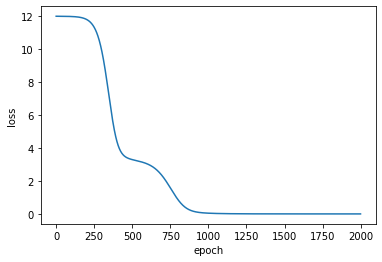
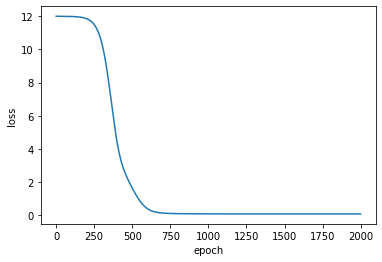
rebuilding site 2019년 9월 14일 토요일 23시 24분 21초 KST

diff --git a/post/latent_factor_model/index.html b/post/latent_factor_model/index.html
@@ -93,11 +93,13 @@
 </ul></li>
 <li><a href="#케라스-keras-로-모델링-modeling">케라스(Keras)로 모델링(Modeling)</a>
 <ul>
-<li><a href="#데이터-변환-및-분할">데이터 변환 및 분할</a></li>
+<li><a href="#데이터-변환">데이터 변환</a></li>
+<li><a href="#훈련-테스트-데이터-분할">훈련, 테스트 데이터 분할</a></li>
 <li><a href="#임베딩-embedding-1">임베딩 (Embedding)</a></li>
 <li><a href="#벡터화-flatten">벡터화 (Flatten)</a></li>
 <li><a href="#모델링-modeling">모델링 (Modeling)</a></li>
-<li><a href="#모델-훈련-및-평가-train-test-model">모델 훈련 및 평가 (Train &amp; Test Model)</a></li>
+<li><a href="#모델-훈련-train-model">모델 훈련 (Train Model)</a></li>
+<li><a href="#모델-평가-test-model">모델 평가 (Test Model)</a></li>
 </ul></li>
 <li><a href="#해결-solution">해결 (Solution)</a></li>
 </ul></li>
@@ -188,14 +190,7 @@ path <span style="color:#f92672">=</span> get_file(zip_fname, origin, extract<sp
 
 path <span style="color:#f92672">=</span> path<span style="color:#f92672">.</span>replace(zip_fname, data_dir)
 ratings_path <span style="color:#f92672">=</span> os<span style="color:#f92672">.</span>path<span style="color:#f92672">.</span>join(path, ratings_fname)
-movies_path <span style="color:#f92672">=</span> os<span style="color:#f92672">.</span>path<span style="color:#f92672">.</span>join(path, movies_fname)
-
-<span style="color:#66d9ef">print</span>(ratings_path)
-<span style="color:#66d9ef">print</span>(movies_path)</code></pre></div>
-<pre><code>/home/dataman/.keras/datasets/ml-latest-small/ratings.csv
-/home/dataman/.keras/datasets/ml-latest-small/movies.csv
-</code></pre>
-
+movies_path <span style="color:#f92672">=</span> os<span style="color:#f92672">.</span>path<span style="color:#f92672">.</span>join(path, movies_fname)</code></pre></div>
 <h3 id="ratings-데이터프레임">Ratings 데이터프레임</h3>
 <div class="highlight"><pre style="color:#f8f8f2;background-color:#272822;-moz-tab-size:4;-o-tab-size:4;tab-size:4"><code class="language-python" data-lang="python"><span style="color:#f92672">import</span> pandas <span style="color:#f92672">as</span> pd
 <span style="color:#f92672">import</span> numpy <span style="color:#f92672">as</span> np
@@ -1538,12 +1533,14 @@ n_users_latent_factors <span style="color:#f92672">=</span> <span style="color:#
 
 <span style="color:#75715e"># Item latent factor</span>
 item_embedding <span style="color:#f92672">=</span> Embedding(n_items, n_items_latent_factors, <span style="color:#75715e"># (5X2) Latent factor</span>
+                           embeddings_regularizer<span style="color:#f92672">=</span>regularizers<span style="color:#f92672">.</span>l2(<span style="color:#ae81ff">0.001</span>),
                            name<span style="color:#f92672">=</span><span style="color:#e6db74">&#39;item_embedding&#39;</span>)(item_input)
 <span style="color:#75715e"># User latent factor</span>
 user_embedding <span style="color:#f92672">=</span> Embedding(n_users, n_users_latent_factors, <span style="color:#75715e"># (4X2) Latent factor</span>
+                           embeddings_regularizer<span style="color:#f92672">=</span>regularizers<span style="color:#f92672">.</span>l2(<span style="color:#ae81ff">0.001</span>),
                            name<span style="color:#f92672">=</span><span style="color:#e6db74">&#39;user_embedding&#39;</span>)(user_input)</code></pre></div>
 <pre><code>WARNING: Logging before flag parsing goes to stderr.
-W0913 01:34:07.430426 139839168730944 deprecation.py:506] From /home/dataman/anaconda3/lib/python3.7/site-packages/tensorflow/python/keras/initializers.py:119: calling RandomUniform.__init__ (from tensorflow.python.ops.init_ops) with dtype is deprecated and will be removed in a future version.
+W0914 23:06:25.672605 139764579673920 deprecation.py:506] From /home/dataman/anaconda3/lib/python3.7/site-packages/tensorflow/python/keras/initializers.py:119: calling RandomUniform.__init__ (from tensorflow.python.ops.init_ops) with dtype is deprecated and will be removed in a future version.
 Instructions for updating:
 Call initializer instance with the dtype argument instead of passing it to the constructor
 </code></pre>
@@ -1577,7 +1574,7 @@ plt<span style="color:#f92672">.</span>plot(hist<span style="color:#f92672">.</s
 plt<span style="color:#f92672">.</span>xlabel(<span style="color:#e6db74">&#39;epoch&#39;</span>)
 plt<span style="color:#f92672">.</span>ylabel(<span style="color:#e6db74">&#39;loss&#39;</span>)
 plt<span style="color:#f92672">.</span>show()</code></pre></div>
-<pre><code>loss:  0.030767172574996948
+<pre><code>loss:  0.07310417294502258
 </code></pre>
 
 <p><img src="output_50_1.png" alt="png" /></p>
@@ -1618,38 +1615,38 @@ pd<span style="color:#f92672">.</span>DataFrame(R_hat)</code></pre></div>
   <tbody>
     <tr>
       <td>0</td>
-      <td>4.999623</td>
-      <td>4.522830</td>
-      <td>1.008499</td>
-      <td>0.986881</td>
+      <td>4.986020</td>
+      <td>4.506338</td>
+      <td>1.004396</td>
+      <td>0.993599</td>
     </tr>
     <tr>
       <td>1</td>
-      <td>4.741117</td>
-      <td>4.289957</td>
-      <td>1.006786</td>
-      <td>0.981370</td>
+      <td>4.735092</td>
+      <td>4.280501</td>
+      <td>1.003393</td>
+      <td>0.988274</td>
     </tr>
     <tr>
       <td>2</td>
-      <td>5.235123</td>
-      <td>4.735589</td>
-      <td>1.041489</td>
-      <td>1.020268</td>
+      <td>5.230458</td>
+      <td>4.726562</td>
+      <td>1.017328</td>
+      <td>1.009568</td>
     </tr>
     <tr>
       <td>3</td>
-      <td>1.000833</td>
-      <td>1.003219</td>
-      <td>5.234733</td>
-      <td>4.739758</td>
+      <td>1.002702</td>
+      <td>1.002625</td>
+      <td>5.225470</td>
+      <td>4.729930</td>
     </tr>
     <tr>
       <td>4</td>
-      <td>1.001417</td>
-      <td>0.994072</td>
-      <td>4.737130</td>
-      <td>4.290676</td>
+      <td>1.001995</td>
+      <td>0.992466</td>
+      <td>4.729147</td>
+      <td>4.282340</td>
     </tr>
   </tbody>
 </table>
@@ -1723,10 +1720,9 @@ GD 대신에 Adam을 사용한다.</p>
 
 <h2 id="케라스-keras-로-모델링-modeling">케라스(Keras)로 모델링(Modeling)</h2>
 
-<h3 id="데이터-변환-및-분할">데이터 변환 및 분할</h3>
+<h3 id="데이터-변환">데이터 변환</h3>
 
-<p>훈련 데이터는 <code>ratings_df</code>에서 랜덤하게 80%를 선택하고,<br />
-테스트 데이터는 나머지 20%를 랜덤하게 선택한다.</p>
+<p><code>userId</code>와 <code>movieId</code>를 숫자로 변환(인코딩)한다.</p>
 <div class="highlight"><pre style="color:#f8f8f2;background-color:#272822;-moz-tab-size:4;-o-tab-size:4;tab-size:4"><code class="language-python" data-lang="python"><span style="color:#75715e"># Indexing userId and movieId</span>
 users <span style="color:#f92672">=</span> ratings_df<span style="color:#f92672">.</span>userId<span style="color:#f92672">.</span>unique()
 movies <span style="color:#f92672">=</span> ratings_df<span style="color:#f92672">.</span>movieId<span style="color:#f92672">.</span>unique()
@@ -1735,9 +1731,12 @@ userid2idx <span style="color:#f92672">=</span> {o:i <span style="color:#66d9ef"
 movieid2idx <span style="color:#f92672">=</span> {o:i <span style="color:#66d9ef">for</span> i,o <span style="color:#f92672">in</span> enumerate(movies)}
 
 ratings_df[<span style="color:#e6db74">&#39;userId&#39;</span>] <span style="color:#f92672">=</span> ratings_df[<span style="color:#e6db74">&#39;userId&#39;</span>]<span style="color:#f92672">.</span>apply(<span style="color:#66d9ef">lambda</span> x: userid2idx[x])
-ratings_df[<span style="color:#e6db74">&#39;movieId&#39;</span>] <span style="color:#f92672">=</span> ratings_df[<span style="color:#e6db74">&#39;movieId&#39;</span>]<span style="color:#f92672">.</span>apply(<span style="color:#66d9ef">lambda</span> x: movieid2idx[x])
+ratings_df[<span style="color:#e6db74">&#39;movieId&#39;</span>] <span style="color:#f92672">=</span> ratings_df[<span style="color:#e6db74">&#39;movieId&#39;</span>]<span style="color:#f92672">.</span>apply(<span style="color:#66d9ef">lambda</span> x: movieid2idx[x])</code></pre></div>
+<h3 id="훈련-테스트-데이터-분할">훈련, 테스트 데이터 분할</h3>
 
-<span style="color:#75715e"># Split train and test data</span>
+<p>훈련 데이터는 <code>ratings_df</code>에서 랜덤하게 80%를 선택하고,<br />
+테스트 데이터는 나머지 20%를 랜덤하게 선택한다.</p>
+<div class="highlight"><pre style="color:#f8f8f2;background-color:#272822;-moz-tab-size:4;-o-tab-size:4;tab-size:4"><code class="language-python" data-lang="python"><span style="color:#75715e"># Split train and test data</span>
 split <span style="color:#f92672">=</span> np<span style="color:#f92672">.</span>random<span style="color:#f92672">.</span>rand(len(ratings_df)) <span style="color:#f92672">&lt;</span> <span style="color:#ae81ff">0.8</span>
 
 train_df <span style="color:#f92672">=</span> ratings_df[split]
@@ -1745,8 +1744,8 @@ test_df <span style="color:#f92672">=</span> ratings_df[<span style="color:#f926
 
 <span style="color:#66d9ef">print</span>(<span style="color:#e6db74">&#39;shape of train data is &#39;</span>,train_df<span style="color:#f92672">.</span>shape)
 <span style="color:#66d9ef">print</span>(<span style="color:#e6db74">&#39;shape of test data is &#39;</span>,test_df<span style="color:#f92672">.</span>shape)</code></pre></div>
-<pre><code>shape of train data is  (80544, 4)
-shape of test data is  (20292, 4)
+<pre><code>shape of train data is  (80712, 4)
+shape of test data is  (20124, 4)
 </code></pre>
 
 <h3 id="임베딩-embedding-1">임베딩 (Embedding)</h3>
@@ -1759,11 +1758,13 @@ n_latent_factors <span style="color:#f92672">=</span> <span style="color:#ae81ff
 movie_input <span style="color:#f92672">=</span> Input(shape<span style="color:#f92672">=</span>[<span style="color:#ae81ff">1</span>])
 <span style="color:#75715e"># Item latent factor</span>
 movie_embedding <span style="color:#f92672">=</span> Embedding(n_movies, n_latent_factors,
-                           name<span style="color:#f92672">=</span><span style="color:#e6db74">&#39;movie_embedding&#39;</span>)(movie_input)
+                            embeddings_regularizer<span style="color:#f92672">=</span>regularizers<span style="color:#f92672">.</span>l2(<span style="color:#ae81ff">0.00001</span>), 
+                            name<span style="color:#f92672">=</span><span style="color:#e6db74">&#39;movie_embedding&#39;</span>)(movie_input)
 
 user_input <span style="color:#f92672">=</span> Input(shape<span style="color:#f92672">=</span>[<span style="color:#ae81ff">1</span>])
 <span style="color:#75715e"># User latent factor</span>
 user_embedding <span style="color:#f92672">=</span> Embedding(n_users, n_latent_factors,
+                           embeddings_regularizer<span style="color:#f92672">=</span>regularizers<span style="color:#f92672">.</span>l2(<span style="color:#ae81ff">0.00001</span>),
                            name<span style="color:#f92672">=</span><span style="color:#e6db74">&#39;user_embedding&#39;</span>)(user_input)</code></pre></div>
 <h3 id="벡터화-flatten">벡터화 (Flatten)</h3>
 <div class="highlight"><pre style="color:#f8f8f2;background-color:#272822;-moz-tab-size:4;-o-tab-size:4;tab-size:4"><code class="language-python" data-lang="python"><span style="color:#75715e"># Item latent vector</span>
@@ -1774,33 +1775,37 @@ user_vec <span style="color:#f92672">=</span> Flatten()(user_embedding)</code></
 <div class="highlight"><pre style="color:#f8f8f2;background-color:#272822;-moz-tab-size:4;-o-tab-size:4;tab-size:4"><code class="language-python" data-lang="python">r_hat <span style="color:#f92672">=</span> dot([movie_vec, user_vec], axes<span style="color:#f92672">=-</span><span style="color:#ae81ff">1</span>)
 model <span style="color:#f92672">=</span> Model([user_input, movie_input], r_hat)
 model<span style="color:#f92672">.</span>compile(optimizer <span style="color:#f92672">=</span> <span style="color:#e6db74">&#39;adam&#39;</span>, loss <span style="color:#f92672">=</span> <span style="color:#e6db74">&#39;mean_squared_error&#39;</span>)</code></pre></div>
-<h3 id="모델-훈련-및-평가-train-test-model">모델 훈련 및 평가 (Train &amp; Test Model)</h3>
+<h3 id="모델-훈련-train-model">모델 훈련 (Train Model)</h3>
 
 <p>⚙ 엔지니어</p>
 
 <blockquote>
-<p>돌려놓고 커피 한잔 하세여~</p>
+<p>돌려놓고 커피 한잔 하세여~ ☕</p>
 </blockquote>
 <div class="highlight"><pre style="color:#f8f8f2;background-color:#272822;-moz-tab-size:4;-o-tab-size:4;tab-size:4"><code class="language-python" data-lang="python">hist <span style="color:#f92672">=</span> model<span style="color:#f92672">.</span>fit([train_df<span style="color:#f92672">.</span>userId, train_df<span style="color:#f92672">.</span>movieId], train_df<span style="color:#f92672">.</span>rating, 
-                 batch_size<span style="color:#f92672">=</span><span style="color:#ae81ff">128</span>, epochs<span style="color:#f92672">=</span><span style="color:#ae81ff">50</span>, verbose<span style="color:#f92672">=</span><span style="color:#ae81ff">0</span>, 
-                 validation_data <span style="color:#f92672">=</span> ([test_df<span style="color:#f92672">.</span>userId, test_df<span style="color:#f92672">.</span>movieId],test_df<span style="color:#f92672">.</span>rating)) 
+                 batch_size<span style="color:#f92672">=</span><span style="color:#ae81ff">128</span>, epochs<span style="color:#f92672">=</span><span style="color:#ae81ff">50</span>, verbose<span style="color:#f92672">=</span><span style="color:#ae81ff">0</span> ) 
+
 <span style="color:#66d9ef">print</span>(<span style="color:#e6db74">&#39;train loss: &#39;</span>, hist<span style="color:#f92672">.</span>history[<span style="color:#e6db74">&#39;loss&#39;</span>][<span style="color:#f92672">-</span><span style="color:#ae81ff">1</span>])
-<span style="color:#66d9ef">print</span>(<span style="color:#e6db74">&#39;test loss: &#39;</span>, hist<span style="color:#f92672">.</span>history[<span style="color:#e6db74">&#39;val_loss&#39;</span>][<span style="color:#f92672">-</span><span style="color:#ae81ff">1</span>])
 
 <span style="color:#f92672">%</span>matplotlib inline
 <span style="color:#f92672">import</span> matplotlib.pyplot <span style="color:#f92672">as</span> plt
 
-plt<span style="color:#f92672">.</span>plot(hist<span style="color:#f92672">.</span>history[<span style="color:#e6db74">&#39;loss&#39;</span>], <span style="color:#e6db74">&#39;b&#39;</span>)
-plt<span style="color:#f92672">.</span>plot(hist<span style="color:#f92672">.</span>history[<span style="color:#e6db74">&#39;val_loss&#39;</span>] , <span style="color:#e6db74">&#39;r&#39;</span>)
+plt<span style="color:#f92672">.</span>plot(hist<span style="color:#f92672">.</span>history[<span style="color:#e6db74">&#39;loss&#39;</span>])
 plt<span style="color:#f92672">.</span>xlabel(<span style="color:#e6db74">&#39;epoch&#39;</span>)
 plt<span style="color:#f92672">.</span>ylabel(<span style="color:#e6db74">&#39;loss&#39;</span>)
-plt<span style="color:#f92672">.</span>legend([<span style="color:#e6db74">&#39;train&#39;</span>, <span style="color:#e6db74">&#39;test&#39;</span>], loc<span style="color:#f92672">=</span><span style="color:#e6db74">&#39;upper left&#39;</span>)
 plt<span style="color:#f92672">.</span>show()</code></pre></div>
-<pre><code>train loss:  0.015632702463206954
-test loss:  1.4420501856603685
+<pre><code>train loss:  0.22794349201962194
 </code></pre>
 
-<p><img src="output_65_1.png" alt="png" /></p>
+<p><img src="output_67_1.png" alt="png" /></p>
+
+<h3 id="모델-평가-test-model">모델 평가 (Test Model)</h3>
+<div class="highlight"><pre style="color:#f8f8f2;background-color:#272822;-moz-tab-size:4;-o-tab-size:4;tab-size:4"><code class="language-python" data-lang="python">test_loss <span style="color:#f92672">=</span> model<span style="color:#f92672">.</span>evaluate([test_df<span style="color:#f92672">.</span>userId, test_df<span style="color:#f92672">.</span>movieId], test_df<span style="color:#f92672">.</span>rating)
+
+<span style="color:#66d9ef">print</span>(<span style="color:#e6db74">&#39;test loss: &#39;</span>, test_loss)</code></pre></div>
+<pre><code>20124/20124 [==============================] - 1s 32us/sample - loss: 1.8129
+test loss:  1.8128546826812435
+</code></pre>
 
 <p>⚙ 엔지니어</p>
 
@@ -1829,7 +1834,7 @@ movie_v <span style="color:#f92672">=</span> np<span style="color:#f92672">.</sp
 predict <span style="color:#f92672">=</span> model<span style="color:#f92672">.</span>predict([user_v, movie_v])
 
 <span style="color:#66d9ef">print</span>(<span style="color:#e6db74">&#39;영화 {} 에 대한 사용자 ID {}님의 예상 별점은 {:.1f} 입니다.&#39;</span><span style="color:#f92672">.</span>format(movie_title, userId, predict[<span style="color:#ae81ff">0</span>][<span style="color:#ae81ff">0</span>]))</code></pre></div>
-<pre><code>영화 William Shakespeare's Romeo + Juliet (1996) 에 대한 사용자 ID 214님의 예상 별점은 4.0 입니다.
+<pre><code>영화 William Shakespeare's Romeo + Juliet (1996) 에 대한 사용자 ID 214님의 예상 별점은 3.8 입니다.
 </code></pre>
 		</div>
 		<footer class="post__footer">
